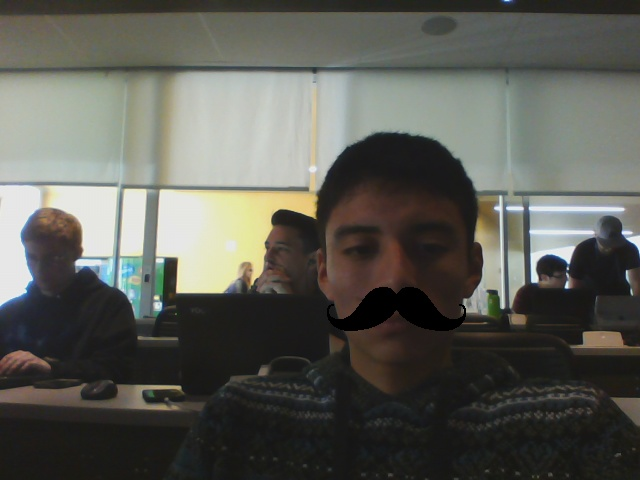
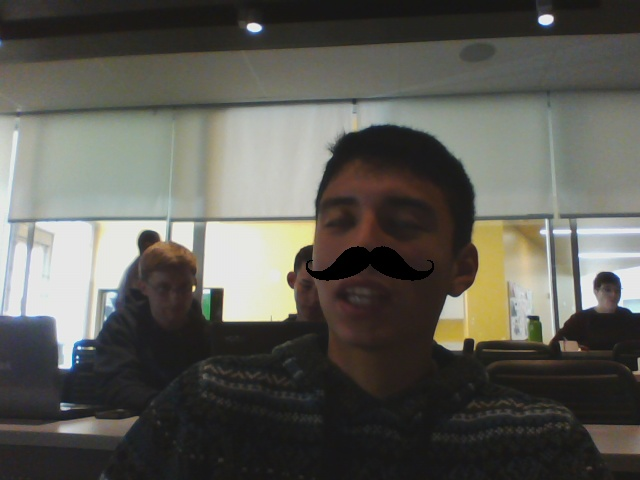
added timer

diff --git a/test.py b/test.py
@@ -1,5 +1,6 @@
 import cv2  # OpenCV Library
 import sys
+import time
 
 # -----------------------------------------------------------------------------
 #       Load and configure Haar Cascade Classifiers
@@ -34,11 +35,10 @@ origMustacheHeight, origMustacheWidth = imgMustache.shape[:2]
 # collect video input from first webcam on system
 video_capture = cv2.VideoCapture(0)
 
-i = 0
+while time.clock() < 15:
+    print time.clock()
 
-while i < 30:
-    i = i + 1
-    print(i)
+    # print(i)
     # Capture video feed
     ret, frame = video_capture.read()
 
